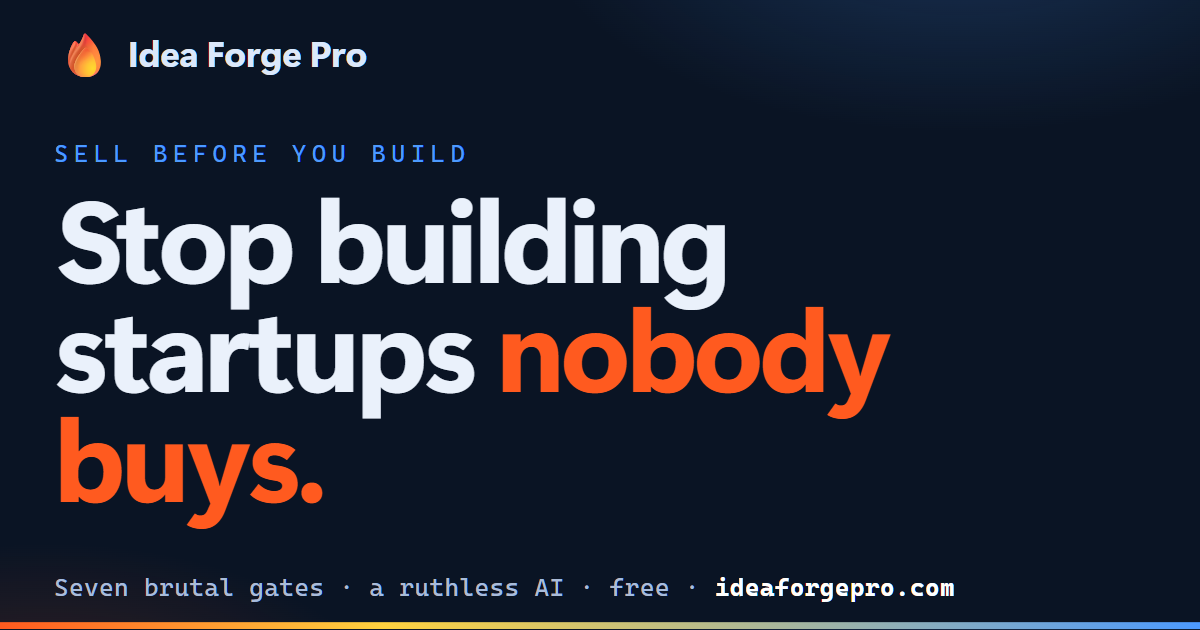
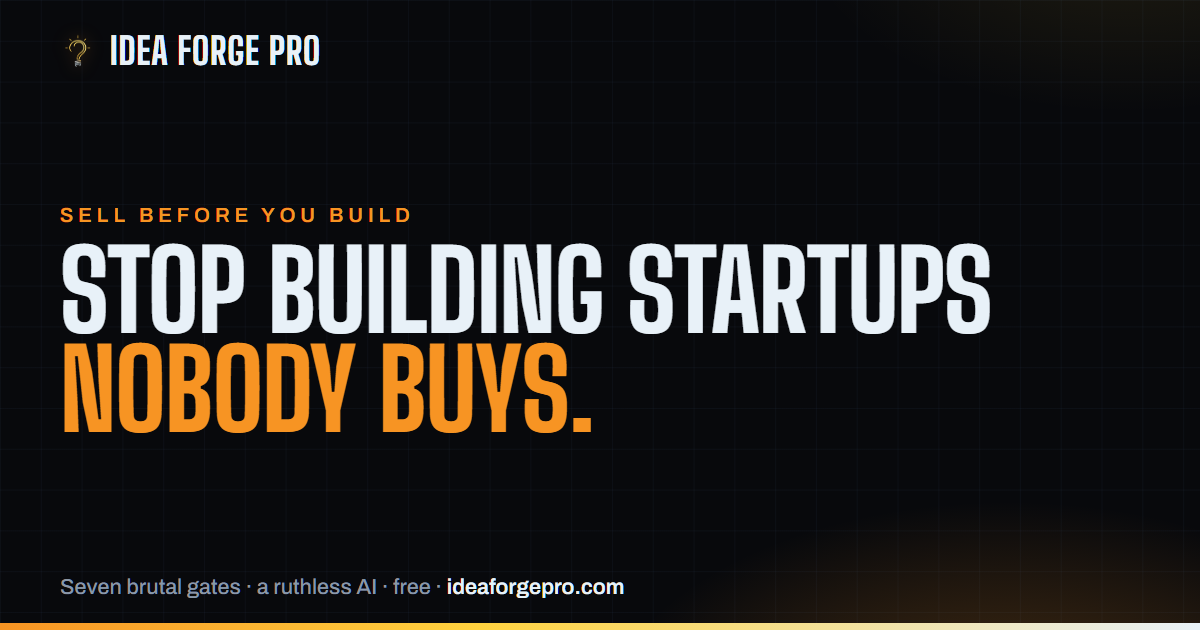
Regenerate OG card to the anvil identity; bump og-image cache-buster to ?5
Same anvil social card as the landing (was the old flame/navy card).
Bumps og:image/twitter:image query ?3 -> ?5 so scrapers refetch.

diff --git a/index.html b/index.html
@@ -9,13 +9,13 @@
 <meta property="og:site_name" content="Idea Forge Pro">
 <meta property="og:title" content="Idea Forge Pro — Sell Before You Build">
 <meta property="og:description" content="Stress-test a startup idea through seven brutal gates until it's sellable with no product built. A ruthless AI skeptic, on your own API key.">
-<meta property="og:image" content="https://app.ideaforgepro.com/og-image.png?3">
+<meta property="og:image" content="https://app.ideaforgepro.com/og-image.png?5">
 <meta property="og:image:width" content="1200">
 <meta property="og:image:height" content="630">
 <meta name="twitter:card" content="summary_large_image">
 <meta name="twitter:title" content="Idea Forge Pro — Sell Before You Build">
 <meta name="twitter:description" content="Stress-test a startup idea through seven brutal gates until it's sellable with no product built.">
-<meta name="twitter:image" content="https://app.ideaforgepro.com/og-image.png?3">
+<meta name="twitter:image" content="https://app.ideaforgepro.com/og-image.png?5">
 <title>Idea Forge Pro — Sell Before Build</title>
 <link rel="icon" href="/favicon.ico" sizes="any">
 </head>